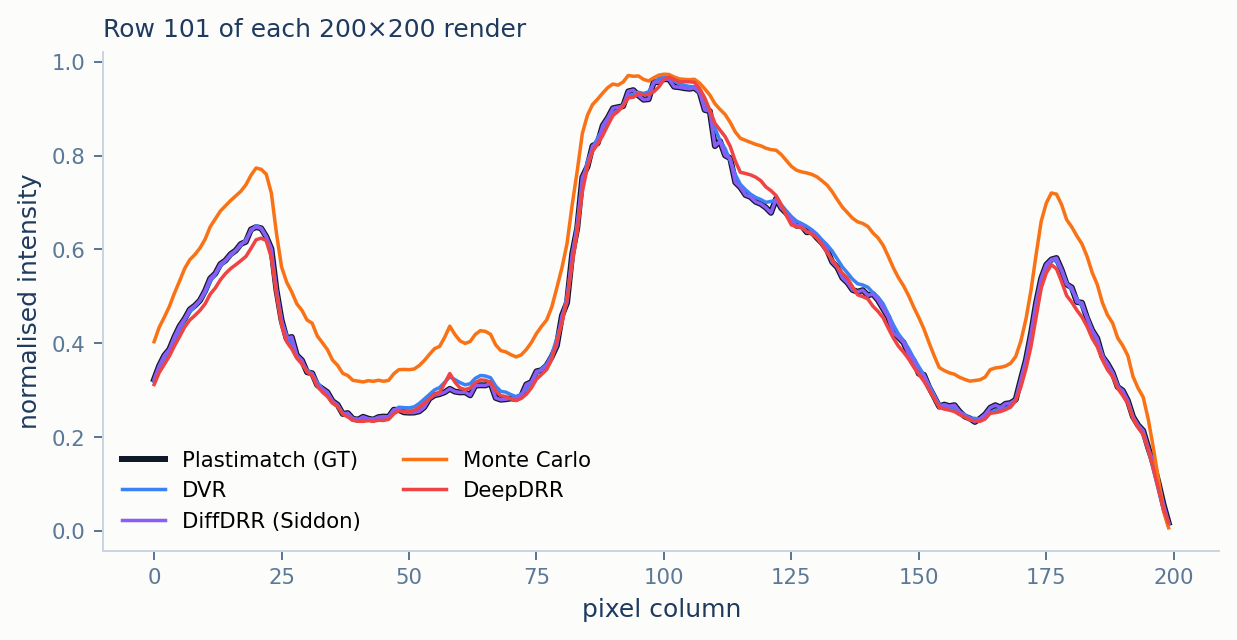
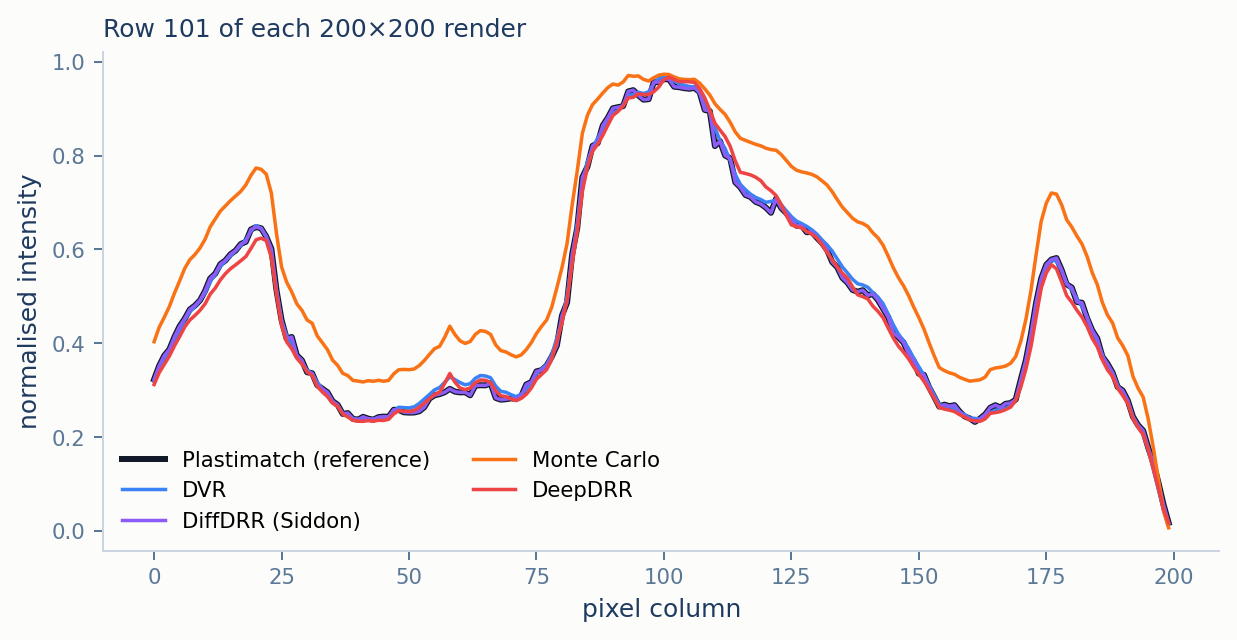
fix: call Plastimatch the benchmark reference instead of ground truth
Comments, log lines and figure labels now say reference. The plastimatch_gt result key is unchanged. Regenerated the four result figures that carried [GT] labels.

Changed region(s): [[0.2458, 0.6875, 0.5222, 0.7812]]

diff --git a/src/drr/benchmarks.py b/src/drr/benchmarks.py
@@ -239,7 +239,7 @@ def run_vram(volume_tensor, subject, resolutions, n_pts, ct_size, voxel_spacing,
 def run_quality(volume_tensor, subject, n_pts, ct_size, voxel_spacing, device, out_dir):
     """
     Renders a fixed scene through all five engines and scores RMSE/PSNR/SSIM
-    against Plastimatch, the sole ground-truth renderer in this repo.
+    against Plastimatch, the benchmark reference in this repo.
 
     Args:
         volume_tensor: The CT density volume to render, already loaded into memory.
@@ -263,17 +263,17 @@ def run_quality(volume_tensor, subject, n_pts, ct_size, voxel_spacing, device, o
     images  = {}
     vol     = volume_tensor.to(device)
 
-    # ── Ground Truth reference ──────────────────────────────────────────────
+    # ── Benchmark reference ──────────────────────────────────────────────
 
-    # Plastimatch GT (exact geometric ray-tracing on CPU) — sole Ground Truth.
+    # Plastimatch (exact geometric ray-tracing on CPU) — the benchmark reference.
     img_plastimatch = generate_plastimatch_drr(volume_tensor, voxel_spacing, RES, device)
     if img_plastimatch is not None:
         images["plastimatch_gt"] = img_plastimatch
-        logger.info("    Plastimatch (GT)      rendered: shape %s", tuple(img_plastimatch.shape))
+        logger.info("    Plastimatch (reference)    rendered: shape %s", tuple(img_plastimatch.shape))
     else:
-        logger.warning("    Plastimatch (GT)      : FAILED")
+        logger.warning("    Plastimatch (reference)    : FAILED")
 
-    # Monte Carlo — not ground truth, so it's kept out of the "_gt" keys
+    # Monte Carlo — not the reference, so it is kept out of the "_gt" keys
     # below and scored *against* Plastimatch like everyone else.
     img_mc = generate_mc_drr(volume_tensor, voxel_spacing, RES, device)
     if img_mc is not None:
@@ -331,11 +331,11 @@ def run_quality(volume_tensor, subject, n_pts, ct_size, voxel_spacing, device, o
     else:
         logger.info("    DeepDRR           : UNAVAILABLE (requires deepdrr + CUDA/Linux)")
 
-    # ── Metrics vs Ground Truth ──────────────────────────────────────────────
-    # Plastimatch is the sole GT; Monte Carlo is scored against it too,
+    # ── Metrics vs the reference ──────────────────────────────────────────────
+    # Plastimatch is the sole reference; Monte Carlo is scored against it too,
     # under "monte_carlo" rather than a "_gt" key.
     GT_REFS = {
-        k: (v, k.replace("_", " ").replace("gt", "GT").title())
+        k: (v, k[:-3].replace("_", " ").title() + " (reference)")
         for k, v in images.items()
         if k.endswith("_gt")
     }
@@ -343,7 +343,7 @@ def run_quality(volume_tensor, subject, n_pts, ct_size, voxel_spacing, device, o
     logger.info("")
     for name, img in images.items():
         if name.endswith("_gt"):
-            continue   # skip GT-vs-GT comparisons
+            continue   # skip reference-vs-reference comparisons
 
         for ref_key, (ref_img, ref_label) in GT_REFS.items():
             rmse, psnr, ssim = compute_metrics(img, ref_img)
@@ -366,8 +366,8 @@ def run_quality(volume_tensor, subject, n_pts, ct_size, voxel_spacing, device, o
             im_np = img.detach().cpu().squeeze().numpy()
             im_np = (im_np - im_np.min()) / (im_np.max() - im_np.min() + 1e-8)
             ax.imshow(im_np, cmap="gray")
-            # Mark ground truth in the title
-            title = name.replace("_gt", " [GT]").replace("_", "\n")
+            # Mark the reference in the title
+            title = name.replace("_gt", " [reference]").replace("_", "\n")
             ax.set_title(title, fontsize=9)
             ax.axis("off")
 
@@ -706,7 +706,7 @@ def run_multiview(volume_tensor, subject, n_pts, ct_size, voxel_spacing, device,
         row_images.append((view_name, images))
 
         if "plastimatch_gt" not in images:
-            logger.warning("    Plastimatch GT unavailable for this view — skipping metrics.")
+            logger.warning("    Plastimatch reference unavailable for this view — skipping metrics.")
             results[view_name] = None
             continue
 
@@ -721,10 +721,10 @@ def run_multiview(volume_tensor, subject, n_pts, ct_size, voxel_spacing, device,
             logger.info("    %-16s SSIM=%.4f  PSNR=%6.2f dB  RMSE=%.4e", name, ssim, psnr, rmse)
         results[view_name] = view_results
 
-    # ── Summary table: SSIM vs Plastimatch GT, per view ─────────────────────
+    # ── Summary table: SSIM vs Plastimatch reference, per view ─────────────────────
     renderer_order = ["monte_carlo", "dvr", "diffdrr_siddon", "deepdrr"]
     logger.info("")
-    logger.info("  SSIM vs Plastimatch GT, per view:")
+    logger.info("  SSIM vs Plastimatch reference, per view:")
     logger.info("    %-28s" + "".join(f"  {r:>14s}" for r in renderer_order), "View")
     for view_name, view_results in results.items():
         if view_results is None:
@@ -758,7 +758,7 @@ def run_multiview(volume_tensor, subject, n_pts, ct_size, voxel_spacing, device,
                 for spine in ax.spines.values():
                     spine.set_visible(False)
                 if i == 0:
-                    ax.set_title(rname.replace("_gt", " [GT]").replace("_", " "), fontsize=10)
+                    ax.set_title(rname.replace("_gt", " [reference]").replace("_", " "), fontsize=10)
                 if j == 0:
                     ax.set_ylabel(view_name, fontsize=9)
 
@@ -806,7 +806,7 @@ def run_resolution_sweep(volume_tensor, subject, n_pts, ct_size, voxel_spacing, 
         # If Plastimatch itself fails, there's nothing to score against — skip this resolution.
         img_plastimatch = generate_plastimatch_drr(volume_tensor, voxel_spacing, res, device)
         if img_plastimatch is None:
-            logger.warning("    Plastimatch GT unavailable at this resolution — skipping.")
+            logger.warning("    Plastimatch reference unavailable at this resolution — skipping.")
             results[res] = None
             continue
         images["plastimatch_gt"] = img_plastimatch
@@ -875,8 +875,8 @@ def run_resolution_sweep(volume_tensor, subject, n_pts, ct_size, voxel_spacing, 
             ax_psnr.plot(xs, psnr_ys, marker="o", label=name)
 
         for ax, ylabel, title in [
-            (ax_ssim, "SSIM vs Plastimatch GT", "Quality vs Resolution — SSIM"),
-            (ax_psnr, "PSNR (dB) vs Plastimatch GT", "Quality vs Resolution — PSNR"),
+            (ax_ssim, "SSIM vs Plastimatch reference", "Quality vs Resolution — SSIM"),
+            (ax_psnr, "PSNR (dB) vs Plastimatch reference", "Quality vs Resolution — PSNR"),
         ]:
             ax.set_xscale("log", base=2)
             ax.set_xticks(valid_res)
@@ -927,7 +927,7 @@ def run_dvr_sampling_ablation(volume_tensor, subject, ct_size, voxel_spacing, de
     # One Plastimatch render at this resolution is the reference for every n_pts value below.
     img_plastimatch = generate_plastimatch_drr(volume_tensor, voxel_spacing, resolution, device)
     if img_plastimatch is None:
-        logger.warning("    Plastimatch GT unavailable — skipping ablation.")
+        logger.warning("    Plastimatch reference unavailable — skipping ablation.")
         return None
 
     results = {}
@@ -966,13 +966,13 @@ def run_dvr_sampling_ablation(volume_tensor, subject, ct_size, voxel_spacing, de
         # Dual y-axis: SSIM (quality) on the left, render time (cost) on the right.
         fig, ax1 = plt.subplots(figsize=(7, 4.5), dpi=150)
         ax2 = ax1.twinx()
-        l1, = ax1.plot(xs, ssim_ys, marker="o", color="tab:blue", label="SSIM vs Plastimatch GT")
+        l1, = ax1.plot(xs, ssim_ys, marker="o", color="tab:blue", label="SSIM vs Plastimatch reference")
         l2, = ax2.plot(xs, time_ys, marker="s", color="tab:orange", label="Render time (ms)")
         ax1.set_xscale("log", base=2)
         ax1.set_xticks(xs)
         ax1.set_xticklabels([str(n) for n in xs])
         ax1.set_xlabel("DVR samples per ray (n_pts)")
-        ax1.set_ylabel("SSIM vs Plastimatch GT", color="tab:blue")
+        ax1.set_ylabel("SSIM vs Plastimatch reference", color="tab:blue")
         ax2.set_ylabel("Render time (ms)", color="tab:orange")
         ax1.grid(True, alpha=0.3)
         ax1.set_title(f"DVR Cost vs Accuracy ({resolution}×{resolution})")

diff --git a/src/drr/data.py b/src/drr/data.py
@@ -13,7 +13,7 @@ logger = get_logger(__name__)
 
 # Shared density encoding: rho = (HU + 1000) / 4000 above the air cutoff, 0 at or below it.
 # The cutoff matches Plastimatch's HU-to-attenuation lookup, which returns 0 for HU <= -800,
-# so rho stays exactly proportional to the ground truth's attenuation.
+# so rho stays exactly proportional to the benchmark reference's attenuation.
 HU_MIN = -1000.0
 HU_MAX = 3000.0
 HU_AIR_CUTOFF = -800.0

diff --git a/src/drr/renderers/monte_carlo.py b/src/drr/renderers/monte_carlo.py
@@ -220,7 +220,7 @@ def generate_mc_drr(
     seed: int = 42,
 ) -> torch.Tensor | None:
     """
-    Generate a physics-informed reference DRR (NOT ground truth) via deterministic polychromatic ray-marching.
+    Generate a physics-informed reference DRR (not the benchmark reference) via deterministic polychromatic ray-marching.
 
     Args:
         volume_tensor (torch.Tensor): The CT density volume, in [0, 1].

diff --git a/src/drr/renderers/plastimatch.py b/src/drr/renderers/plastimatch.py
@@ -25,7 +25,7 @@ def generate_plastimatch_drr(
     geometry: GeometryConfig = None,
 ) -> torch.Tensor | None:
     """
-    Generate a Ground Truth DRR using Plastimatch's exact ray-tracing algorithm.
+    Generate the benchmark-reference DRR using Plastimatch's exact ray-tracing algorithm.
 
     Args:
         volume_tensor (torch.Tensor): The CT density volume.
